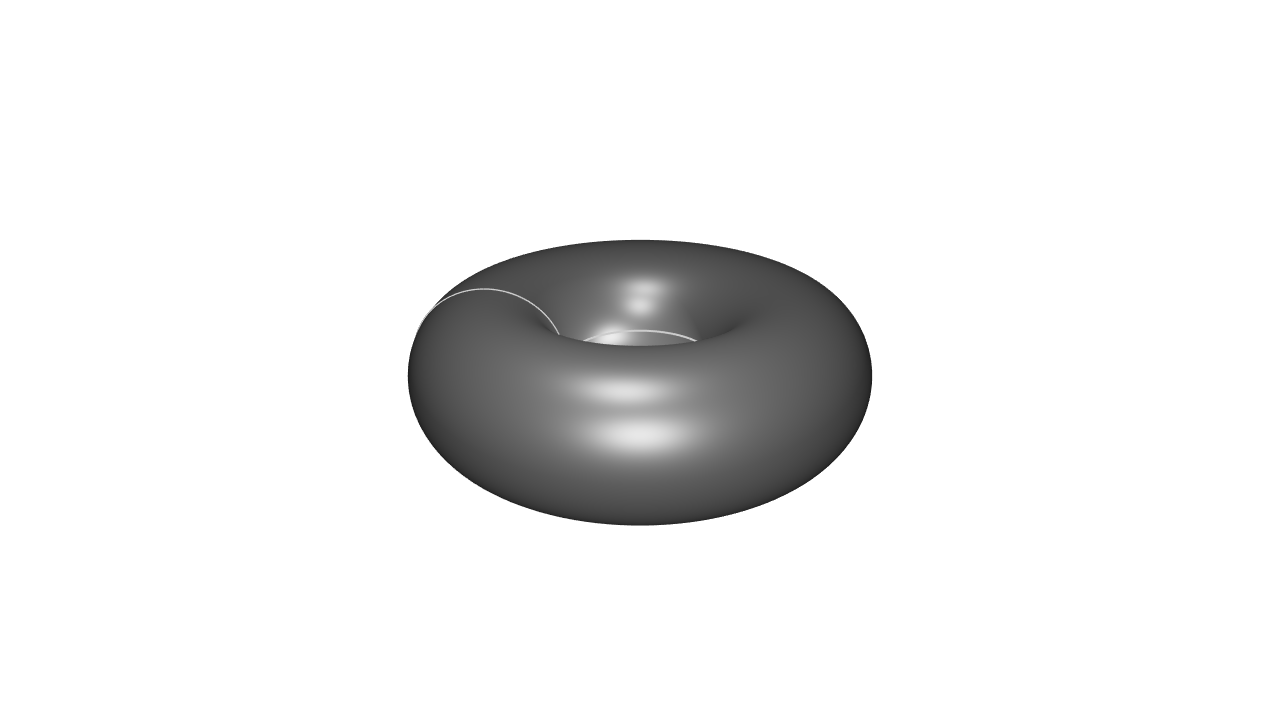
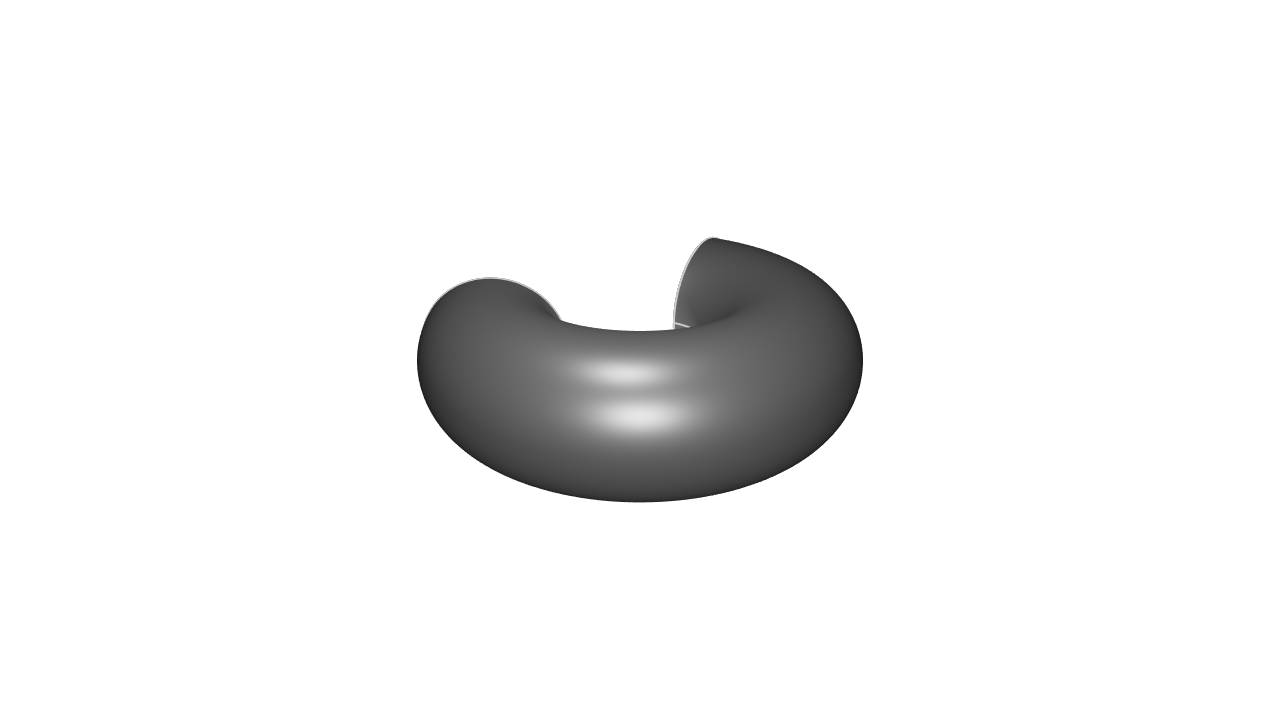
Fix typos

Changed region(s): [[0.3125, 0.3361, 0.6875, 0.7333], [0.625, 0.3667, 0.6562, 0.3972]]

diff --git a/kcl-book/src/sketch3d.md b/kcl-book/src/sketch3d.md
@@ -75,7 +75,7 @@ There's an optional argument called `angle`. In the above example, we didn't pro
 ```kcl=donut240
 startSketchOn(XZ)
   |> circle(center = [-200, 0], radius = 100)
-  |> revolve(axis = Y)
+  |> revolve(axis = Y, angle = 240)
 ```
 
 ![The circle, revolved partway around the axis, to make part of a donut](images/dynamic/donut240.png)

diff --git a/kcl-book/src/sketch2d.md b/kcl-book/src/sketch2d.md
@@ -27,7 +27,7 @@ startSketchOn(XY)
   |> startProfile(at = [0, 0])
   |> line(end = [3, 0])
   |> line(end = [0, 4])
-  |> line(endAbsolute = [0, 0]))
+  |> line(endAbsolute = [0, 0])
   |> close()
 ```
 
